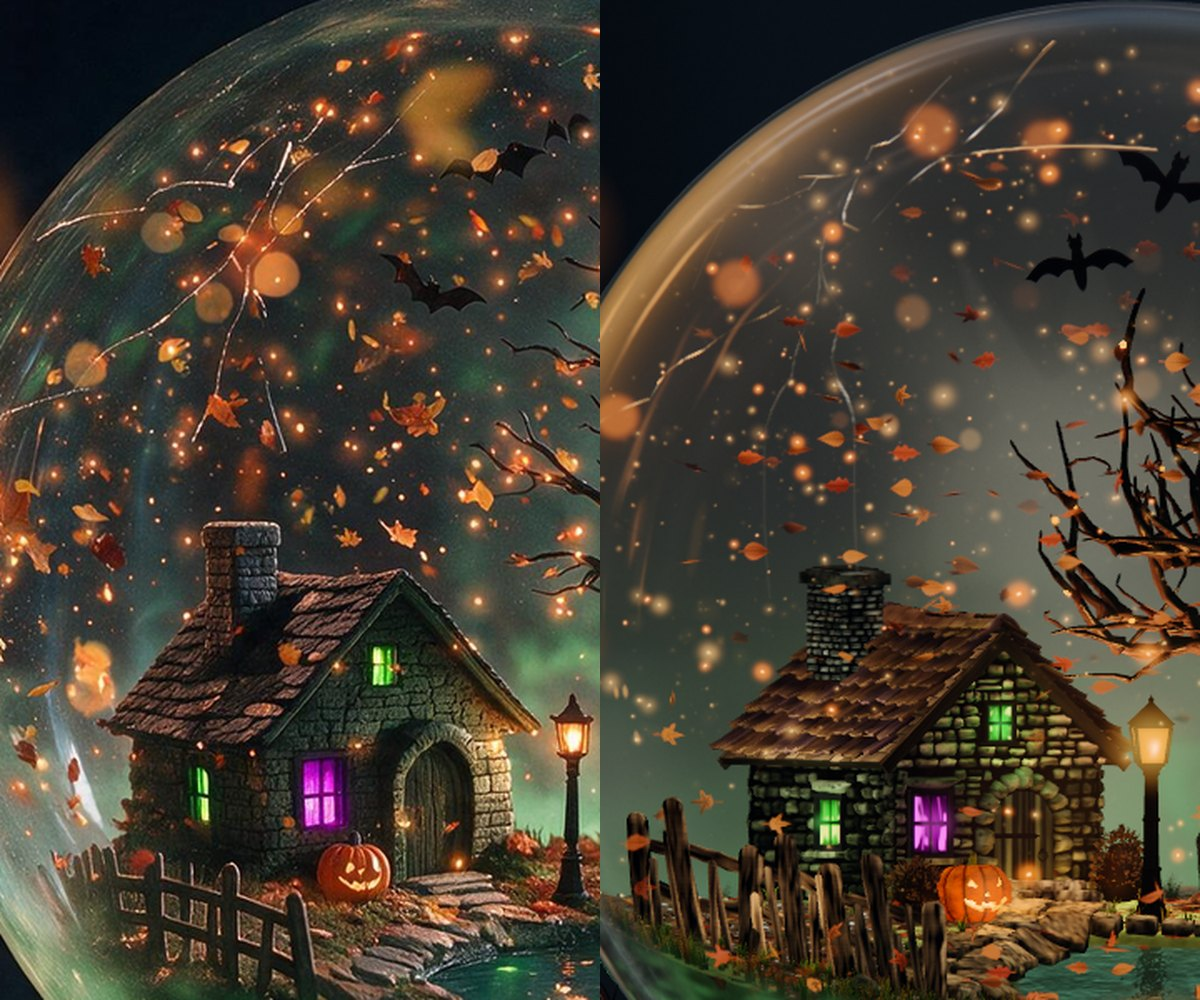
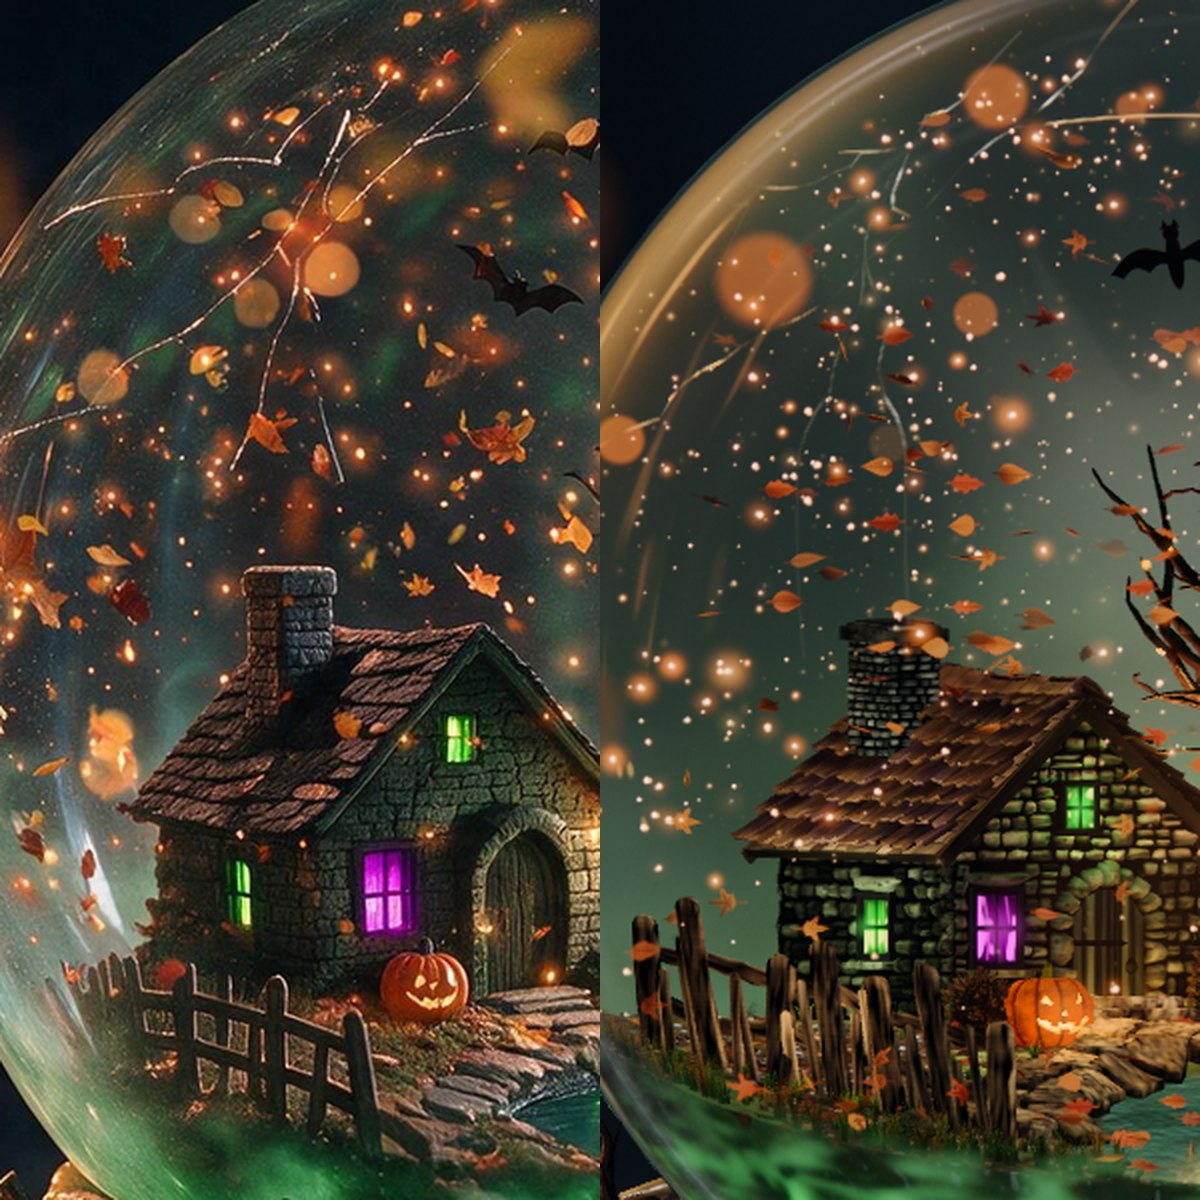
Looks of the seventh list: the rest pair, the left pair, the landed pair, the storm strip

diff --git a/HANDOVER.md b/HANDOVER.md
@@ -65,3 +65,33 @@ The leaves. The counter (`/tmp/w/s4/leafcount2.py`, not in the repo) reads the a
 Open: the two widest discs; the low glow is 12, 18, 8 short; the smallest class is 100 over, of which the scene's own share is the larger part; the upper left's red stands 14 over the approved's; the approved's air has green patches in the middle height that mine does not.
 
 Not seen in this list: anything in motion. The storm was seen only as the landed still.
+
+## Seventh list: the upper air's hue, points against specks, the long top of the discs, the low glow, the left leaves (faf1f7d8, merged with main ade42c8f as a1f02de5)
+
+All numbers below are from the review still of fall at rest drawn on a1f02de5; it is byte for byte the trial still drawn before the merge.
+
+The upper air (discs, leaves and sparks masked; medians r g b and luma, the approved then mine): upper left 42 52 44 (49), 49 59 52 (56); top middle 41 51 51 (48), 40 53 51 (50); upper right 45 59 63 (57), 44 61 63 (57). Red stands under green and blue in all three. Done in the mist of `glass.ts` alone: `mistTop` and `mistHigh` are tinted, and `mistEast` with `mistEastMm` lifts blue over the right side. The haze is not the lever: raising `hazeMid` lifted the upper left by 7 levels. Root accepted these colours; leave them.
+
+Sparks against specks. Bright points 40 over their ground: 550 at 183 149 119, the approved 572 at 192 141 108. The small orange class: 266, the approved 206; of mine 187 lie within 3 px of a point (the approved 171) and 79 stand alone (the approved 35). How: `sparkRestClear` [0.35, 0.39] shows most sparks at rest; `restCore` 0.13 and `restGain` 6.2 make them small and hard; the ember skirt goes by the spark's size, `restHaloVary` [1, 1.5, 8] with `restHaloFaint` 0, so only the largest keep one; `restHotWide` 3 and `restHot` [1, 0.77, 0.6] give the largest a paler middle. `sparkRestFine` now does nothing, since its start lies under the clear ramp; it is left in place and can be taken out.
+
+The points' width over half rise as shares (aligned pair; 1 to 2, 3 to 4, 5 to 6, 7 px and over): the approved 18, 26, 16, 41 percent; mine 21, 31, 13, 35. At hd in the upper left (1 to 3, 4 to 8, 9 to 15, 16 to 30, 31 px and over): the approved 8, 25, 25, 24, 17 with middles 100 97 86, 140 113 92, 138 117 107, 136 118 99, 128 89 47; mine 15, 28, 22, 22, 13 with 102 89 76, 140 117 98, 155 133 113, 152 142 118, 104 51 39.
+
+The specks that stand alone. With the sparks off they count 95, with the leaves off (`leafRestShare` 0) 56 against 80 with them on, so the leaves carry about 24. They are not the small leaves: a floor that faded every leaf under 4.5 px of half length took away one speck and was removed again. They are parts of whole leaves (a lit edge, a leaf seen edge on). The rest lie over the tree and the roof by region (with the sparks off: rim 36, roof 32, tree 94, air 42 of the class); which file of `src/seasons/fall/mini/` draws them was not traced.
+
+The near discs. The size of a near spark had its hash tied to the hash that picks the near ones (`h.y`), so the range could not reach its top; it now has its own (`h2.w`). The trial that proves the range moves the widths: at `nearPx` [18, 42] the six widest read 58, 52, 54, 44, 42, 46 px against 28, 28, 26, 22, 18, 18 at [9, 21]. Now `nearPx` [8, 44] with `nearSkew` 2.4: 44 px at (717,261), 34 at (1059,188), 30 at (834,169), then 24, 24, 20, 16, 16; the approved 50, 44, 26, 26, 24, 22, 18. They are dim (`restDiscSeen` 0.08, faces 81 to 130 over grounds 45 to 87) and cover a little of what is behind them (`restDiscCover` 0.15), since light alone turned them pink over the green air.
+
+The low glow (x 986 to 1049, y 478 to 579): 125 143 103, the approved 127 143 104. By the standing mist alone: `mistLow` [0.24, 0.42, 0.135], `mistStand` 3.4. By layers at draft: all on 113 128 99, mist off 99 101 79, haze off 90 114 75; the haze also carries 11 levels of the upper left, so it was not used.
+
+The leaves by the counter: left 10, roof 17, fence 18; the approved 9, 12, 6; the scene's own orange reads 2, 0, 8 with the air off. So left 8 against 9, roof 17 against 12, fence 10 against 6. `leafRestShare` 0.8 to 0.95.
+
+The band along the inside of the outline at the upper left is not the air's. Cut along the radius at bearing 135 from (958.5, 417.5): the approved has its outline at 355 px, air at 57 (67 55 44) right up to it, and a thin crest of 75 (81 75 62) 2 px inside, 9 px over half rise. Mine has the outline at 340 px, air at 69 (62 71 58), and a band 20 px over half rise with its crest at 139 (166 136 101) 13 px inside the outline. With the whole air, the mist and the fog off the band stands the same (21 px, crest 131 at 164 127 86). In fall's `glass.ts` the arcs add about 9 levels to the crest; the rim tint and the ring cover change only the outermost 6 px. So it is the shell's or the room's light at the limb (`src/globe/shell.ts`), not mended here.
+
+The landed still with and without this list, both on a1f02de5 at review: of 2,073,600 pixels 15,132 move at all (0.73 percent), 4,873 by more than 8 levels (0.24 percent), 2,703 by more than 24; 13 of those over 8 lie outside the glass.
+
+The storm in motion: five film frames in a row, 2148 to 2152 (shake-3), preview format, draft tier, on a1f02de5 (`fall-storm-strip.jpg`). The storm stands in the family of the approved shake: dense orange strokes over pale green air, the miniature seen through it. The glass and the miniature swing between frames and the bat near the top moves by 12 to 25 px a frame. Between neighbours 82 to 85 percent of the pixels inside the glass move by more than 8 levels and about half by more than 24; single leaves could not be followed by eye from frame to frame, so whether the storm reads as flow or as flicker at film speed is not settled by this strip. The landed pair moves by one spark of 13 px outside the glass's circle, at (1253, 652) on the lower right limb.
+
+Proofs on a1f02de5: tsc 0; M3 fall-rest 0.8047 (miniature 0.927); strict pass for fall-rest and fall-shake; M4 0.9694, 0.8676, 0.9562, 0.9586; M5 0.9934, 1, 0.9761, 0.9996; vitest 68 files passed, 1 skipped, 943 tests passed, 8 skipped (four more skip here in `tests/mix.test.ts` without the sound tracks); triangles at high 1,799,613. Draft stills: the six of winter, spring and summer equal the guard list of ade42c8f; fall-rest d6cbaa19ce28ba70, fall-landed 4f35e4f988492da0.
+
+Open: the points are paler than the approved's (183 149 119 against 192 141 108) and fewer of them carry the soft orange glow the eye sees in the approved; 79 specks stand alone against 35; the roof's and the fence's boxes hold more leaves than the approved's; the upper left's medians stand 7 over the approved's in each channel; the two widest discs are 44 and 34 px against 50 and 44.
+
+Not seen in this list: the film played; only the five frames above. The storm's own numbers were not changed.
